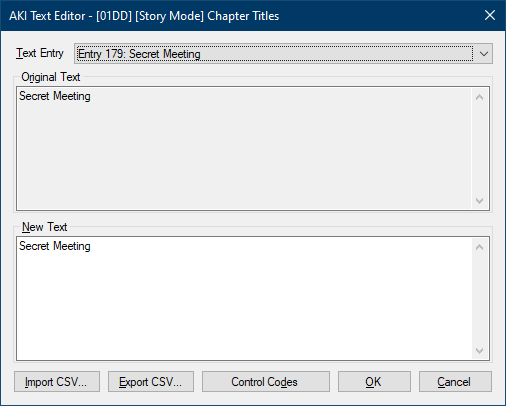
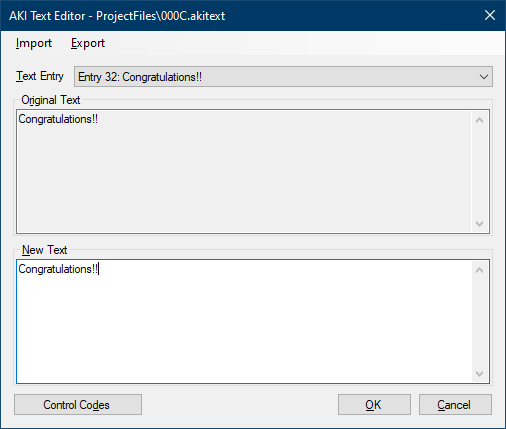
update manual - add info about GIMP .txt palette import/export - update AkiText editor section and screenshot to reflect new import/export setup - add vpw2 text index tool to danger zone doc and some smaller changes

diff --git a/VPWStudio/VPWStudio/Manual/index.html b/VPWStudio/VPWStudio/Manual/index.html
@@ -9,7 +9,7 @@
 <body>
 <div id="header">
 <h1>VPW Studio <small>(incomplete)</small> Manual</h1>
-<p>Version 0.0.0.23 (June 12th, 2022)<br />Program and Manual by freem<br /><br />
+<p>Version 0.0.0.23 (July 13th, 2022)<br />Program and Manual by freem<br /><br />
 <a href="https://vpw.ajworld.net/">https://vpw.ajworld.net/</a><br /><a href="https://github.com/AKI-Club/VPWStudio">https://github.com/AKI-Club/VPWStudio</a></p>
 </div>
 
@@ -1038,7 +1038,8 @@ sub-palettes. Please see the <a href="#CIPaletteEdit">CI Palette Editor</a>
 section for more detailed information on support for these types:</p>
 <ul>
 <li>JASC Paint Shop Pro <code>.pal</code> &ndash; the non-VPW Studio-specific version.</li>
-<li>GIMP <code>.gpl</code> &ndash; palette format from The GIMP.</li>
+<li>GIMP <code>.gpl</code> &ndash; palette format from The GIMP.<br />(For some reason, GIMP doesn't allow you to export this format directly from an image, necessitating the need for the next option in this list...)</li>
+<li>GIMP <code>.txt</code> &ndash; text-based palette format from The GIMP.</li>
 <li>Adobe <code>.act</code> &ndash; palette format from Adobe Photoshop.</li>
 </ul>
 
@@ -1479,10 +1480,11 @@ the CI4 palette has any sub-palettes.</p>
 <h4>Supported Palette Formats</h4>
 <p>There are multiple palette formats available for import and export:</p>
 <ul>
-<li>The game-native formats, "CI4 Palette"/<code>.ci4pal</code> and "CI8 Palette"/<code>.ci8pal</code>. Supports sub-palettes.</li>
-<li>The VPW Studio palette format/<code>.vpwspal</code> (recommended for editing). Supports sub-palettes.</li>
+<li>The game-native formats, "CI4 Palette"/<code>.ci4pal</code> and "CI8 Palette"/<code>.ci8pal</code>. Supports sub-palettes and multiple transparent colors.</li>
+<li>The text-based VPW Studio palette format/<code>.vpwspal</code> (recommended for editing). Supports sub-palettes and multiple transparent colors.</li>
 <li>JASC Paint Shop Pro palette format/<code>.pal</code>. Does not support sub-palettes; each sub-palette must be manually imported/exported.</li>
 <li>GIMP palette format/<code>.gpl</code>. Does not support sub-palettes; each sub-palette must be manually imported/exported.</li>
+<li>GIMP text palette format/<code>.txt</code>. Does not support sub-palettes; each sub-palette must be manually imported/exported. Supports multiple transparent colors <em>for import only</em>.</li>
 <li>Adobe palette format/<code>.act</code>. Does not support sub-palettes; each sub-palette must be manually imported/exported.</li>
 </ul>
 
@@ -1537,14 +1539,20 @@ the loaded texture makes it hard to click on the close window button.</p>
 <em>in WWF WrestleMania 2000</em>, and are also found in <em>Virtual Pro-Wrestling 2</em>
 and <em>WWF No Mercy</em>.</p>
 
+<h4>Import/Export</h4>
+<p>There are two options for importing and exporting AKIText archives to/from
+different formats:</p>
+
 <ul>
-<li><strong>Import CSV...</strong> &ndash; Import an existing CSV file, replacing all entries with the data.</li>
-<li><strong>Export CSV...</strong> &ndash; Export the current AKIText archive to a CSV file.</li>
-<li><strong>Control Codes</strong> &ndash; Shows a dialog box with the various control
-codes (typically) available for text display.</li>
+<li><strong>Tab-separated CSV</strong> &ndash; CSV format, using tabs instead of commas. Meant to be used with Zoinkity's toolset.</li>
+<li><strong>akitext Tool Format</strong> &ndash; Format used by the <a href="https://github.com/AKI-Club/akitext"><code>akitext</code></a> command line tool.</li>
 </ul>
 
 <h4>Control Code Reference</h4>
+<p>Pressing the <strong>Control Codes</strong> button shows a dialog box with the
+various control codes (typically) available for text display. The list is replicated
+below:</p>
+
 <ul>
 <li><code>@B</code> &ndash; Blue text color</li>
 <li><code>@C</code> &ndash; Cyan text color</li>
@@ -1692,14 +1700,13 @@ to be selectable in menus...), and most of the formats change per-game)</p>
 to preview and change sounds. (This includes the theme music found in WM2K, VPW2,
 and No Mercy.)</p>
 
-<p>(todo: I haven't even begun to think about this; you're better off using SubDrag's N64 sound/music tools right now)</p>
+<p>(todo: I haven't even begun to think about this; you're better off using SubDrag and Ice Mario's
+N64 sound/music tools right now)</p>
 
 <hr />
 <h2><a name="Stables">Stables</a></h2>
 <p>The Stable Editor (Project &rarr; Stables) allows you to change the default stable data.
 The stable data controls how the wrestlers are grouped and displayed in the menus.</p>
-
-<p>(todo)</p>
 
 <h3>Game Support</h3>
 <table>
@@ -2070,6 +2077,7 @@ the base for the final, more polished features. Starting with Pre-Alpha Preview
 <li><strong>stable parse test</strong> &ndash; Internal test of parsing the text StableDefinition format. Only properly handles VPW2 and No Mercy formats.</li>
 <li><strong>rom slice test</strong> &ndash; Test the HexViewerManager by getting a specific slice of ROM data. Requires an open project.</li>
 <li><strong>move damage test (WM2K/VPW2/No Mercy only)</strong> &ndash; Show move damage values. Requires an open WM2K/VPW2/No Mercy project.</li>
+<li><strong>vpw2 text index tool</strong> &ndash; Convert from VPW2 text index values to location and index.</li>
 <li><strong>tim test</strong> &ndash; Tests loading of TIM files (PlayStation textures) and their internal CLUT/palette values. Currently only handles the first image in multi-image archives.</li>
 <li><strong>test scene 3d</strong> &ndash; attempting to display multiple models at once. requires an open project file. incomplete and very awkward to use, only recommended for experts and
 the terminally curious.</li>
